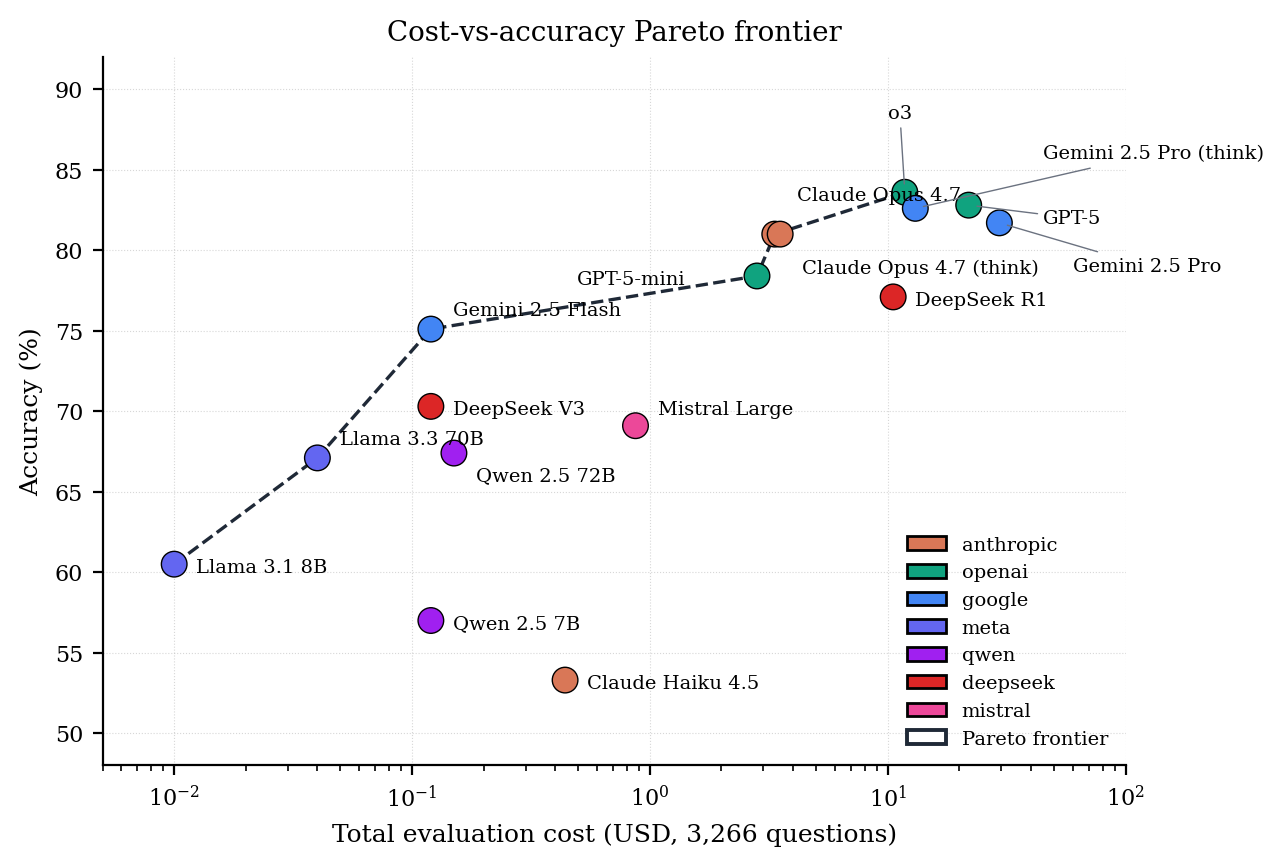
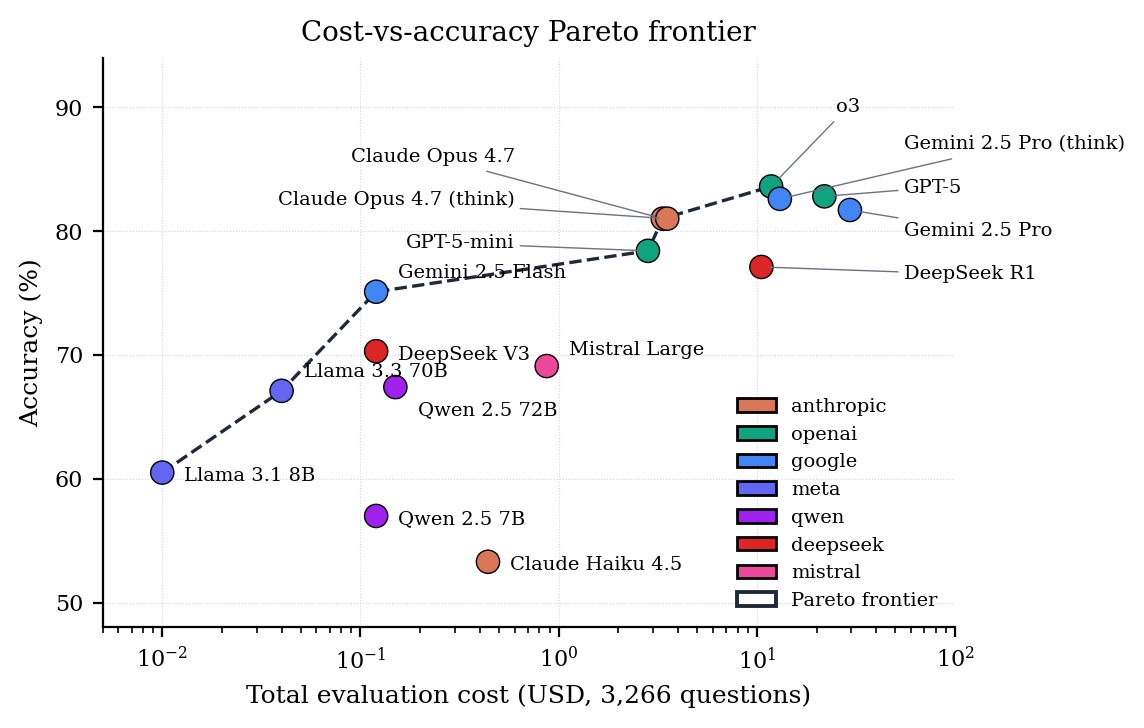
paper: shrink Pareto figure and re-route its labels to remove overlaps
- figsize (6.6, 4.6) -> (5.5, 3.7), marker size 85 -> 70.
- LaTeX width 0.86 -> 0.78 \linewidth.
- ylim 92 -> 94 so the "o3" leader has clear headroom.
- Re-routed every dense-cluster label with a leader line into one of
  two parking columns: left at x=$0.6 (Claude Opus 4.7, Claude Opus
  4.7 (think), GPT-5-mini), right at x=$45-55 (o3, Gemini 2.5 Pro
  (think), GPT-5, Gemini 2.5 Pro, DeepSeek R1). No label sits on top
  of a neighbouring dot or the Pareto-frontier dashed line.

Side effect: tighter cost-efficiency block frees enough space to
pull Section 6 onto p9 alongside Section 5.5, cutting the total PDF
from 28 to 27 pages while keeping the content body at 10 pages.

Body pages 1-10 audited for empty space; no other inefficient gaps.

diff --git a/scripts/figures/generate_figures.py b/scripts/figures/generate_figures.py
@@ -453,7 +453,7 @@ def fig_pareto_cost():
     eff = parse_cost_efficiency()
     cost_by_cfg = {e["config"]: e["cost"] for e in eff}
 
-    fig, ax = plt.subplots(figsize=(6.6, 4.6))
+    fig, ax = plt.subplots(figsize=(5.5, 3.7))
     points = []
     for c in cfgs:
         cost = max(cost_by_cfg.get(c["config"], c["cost"]), 0.01)
@@ -465,15 +465,11 @@ def fig_pareto_cost():
     xs = [p["cost"] for p in points]
     ys = [p["acc"] for p in points]
     cs = [p["color"] for p in points]
-    ax.scatter(xs, ys, c=cs, s=85, edgecolor="black",
+    ax.scatter(xs, ys, c=cs, s=70, edgecolor="black",
                linewidth=0.5, zorder=3)
 
-    # Manual label-offset table (offsets in points). Strategy: keep
-    # labels close in the sparse low-cost region, stagger vertically in
-    # the dense $3 and $10–13 clusters, and shift the rightmost few
-    # points leftward so labels don't clip the right edge.
+    # Sparse area: short right-of-dot labels.
     OFFSETS = {
-        # Sparse low-cost area: simple right-of-dot labels.
         "Llama 3.1 8B":            (8,  -3),
         "Llama 3.3 70B":           (8,   5),
         "Gemini 2.5 Flash":        (8,   5),
@@ -482,20 +478,23 @@ def fig_pareto_cost():
         "Qwen 2.5 72B":            (8,  -10),
         "Claude Haiku 4.5":        (8,  -3),
         "Mistral Large":           (8,   4),
-        # $3 cluster: stagger Opus pair, route GPT-5-mini leftward.
-        "GPT-5-mini":              (-65, -3),
-        "Claude Opus 4.7":         (8,  12),
-        "Claude Opus 4.7 (think)": (8, -14),
-        # Upper-right dense cluster (R1, o3, Pro-think, GPT-5, Pro): use
-        # leader-line annotations for the four dots that would otherwise
-        # collide. R1 is below the rest so its right-of-dot label is safe.
-        "DeepSeek R1":             (8,  -3),
     }
+    # Dense upper-right cluster: route every label with a leader line so
+    # nothing sits on top of a neighbouring dot or the Pareto dashed.
+    # Left-column labels park around x=$0.7 (gap between sparse-low and
+    # dense clusters); right-column labels park around x=$45 (open
+    # right edge). Vertical stagger avoids label-on-label collisions.
     LEADER = {
-        "o3":                      ((10.0, 88.5),  "left"),
-        "Gemini 2.5 Pro (think)":  ((45.0, 86.0),  "left"),
-        "GPT-5":                   ((45.0, 82.0),  "left"),
-        "Gemini 2.5 Pro":          ((60.0, 79.0),  "left"),
+        # Right column (anchored x=$45-65, decreasing y)
+        "o3":                      ((25.0, 90.0),  "left"),
+        "Gemini 2.5 Pro (think)":  ((55.0, 87.0),  "left"),
+        "GPT-5":                   ((55.0, 83.5),  "left"),
+        "Gemini 2.5 Pro":          ((55.0, 80.0),  "left"),
+        "DeepSeek R1":             ((55.0, 76.5),  "left"),
+        # Left column (anchored x=$0.6-0.8, decreasing y)
+        "Claude Opus 4.7":         ((0.6, 86.0),   "right"),
+        "Claude Opus 4.7 (think)": ((0.6, 82.5),   "right"),
+        "GPT-5-mini":              ((0.6, 79.0),   "right"),
     }
     for p in points:
         if p["label"] in LEADER:
@@ -525,7 +524,7 @@ def fig_pareto_cost():
 
     ax.set_xscale("log")
     ax.set_xlim(0.005, 100)
-    ax.set_ylim(48, 92)
+    ax.set_ylim(48, 94)
     ax.set_xlabel("Total evaluation cost (USD, 3,266 questions)")
     ax.set_ylabel("Accuracy (%)")
     ax.set_title("Cost-vs-accuracy Pareto frontier")

diff --git a/paper/sections/05_evaluation.tex b/paper/sections/05_evaluation.tex
@@ -96,7 +96,7 @@ disclosures with the released corpus.
 
 \begin{figure}[h]
   \centering
-  \includegraphics[width=0.86\linewidth]{figures/fig_pareto_cost.pdf}
+  \includegraphics[width=0.78\linewidth]{figures/fig_pareto_cost.pdf}
   \caption{Total OpenRouter cost (log scale) versus accuracy on the
     full 3{,}266-question slate. Family colours match
     Figure~\ref{fig:leaderboard}; the Pareto frontier (red dashed)